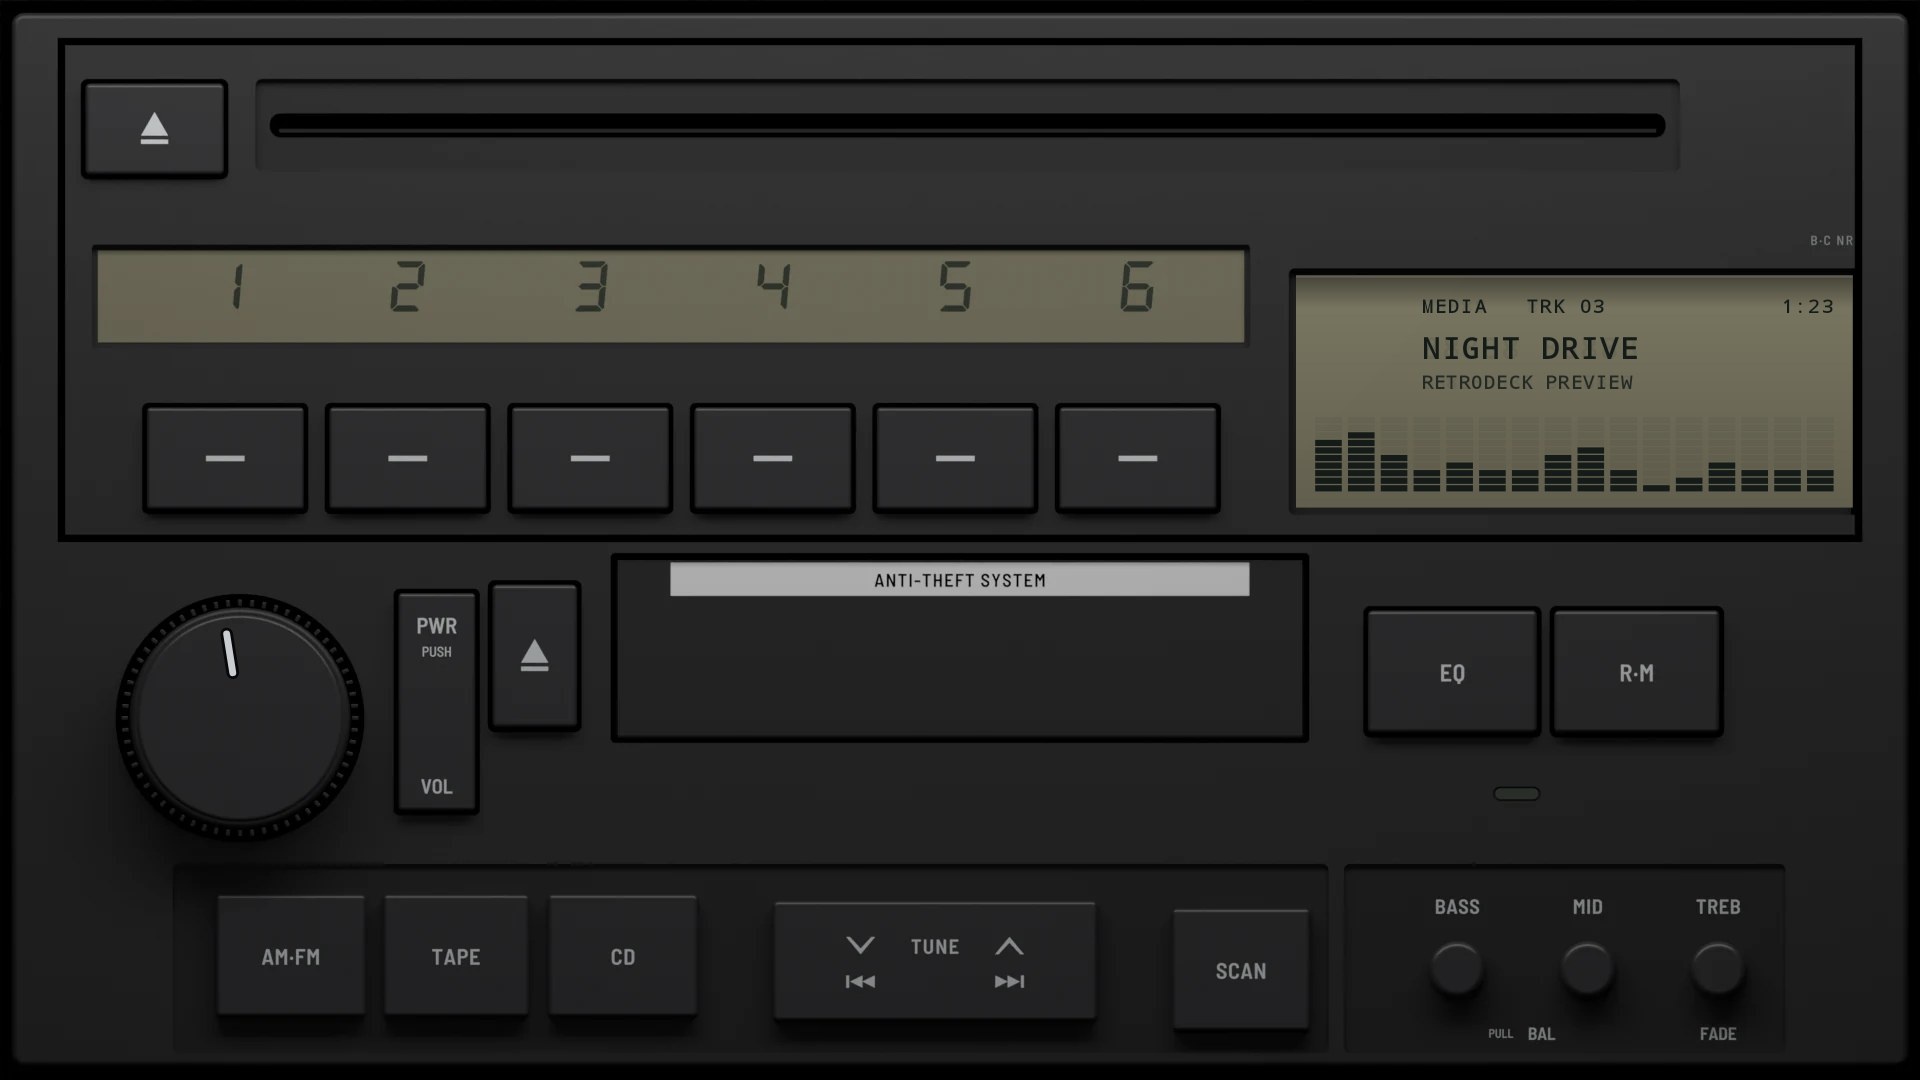
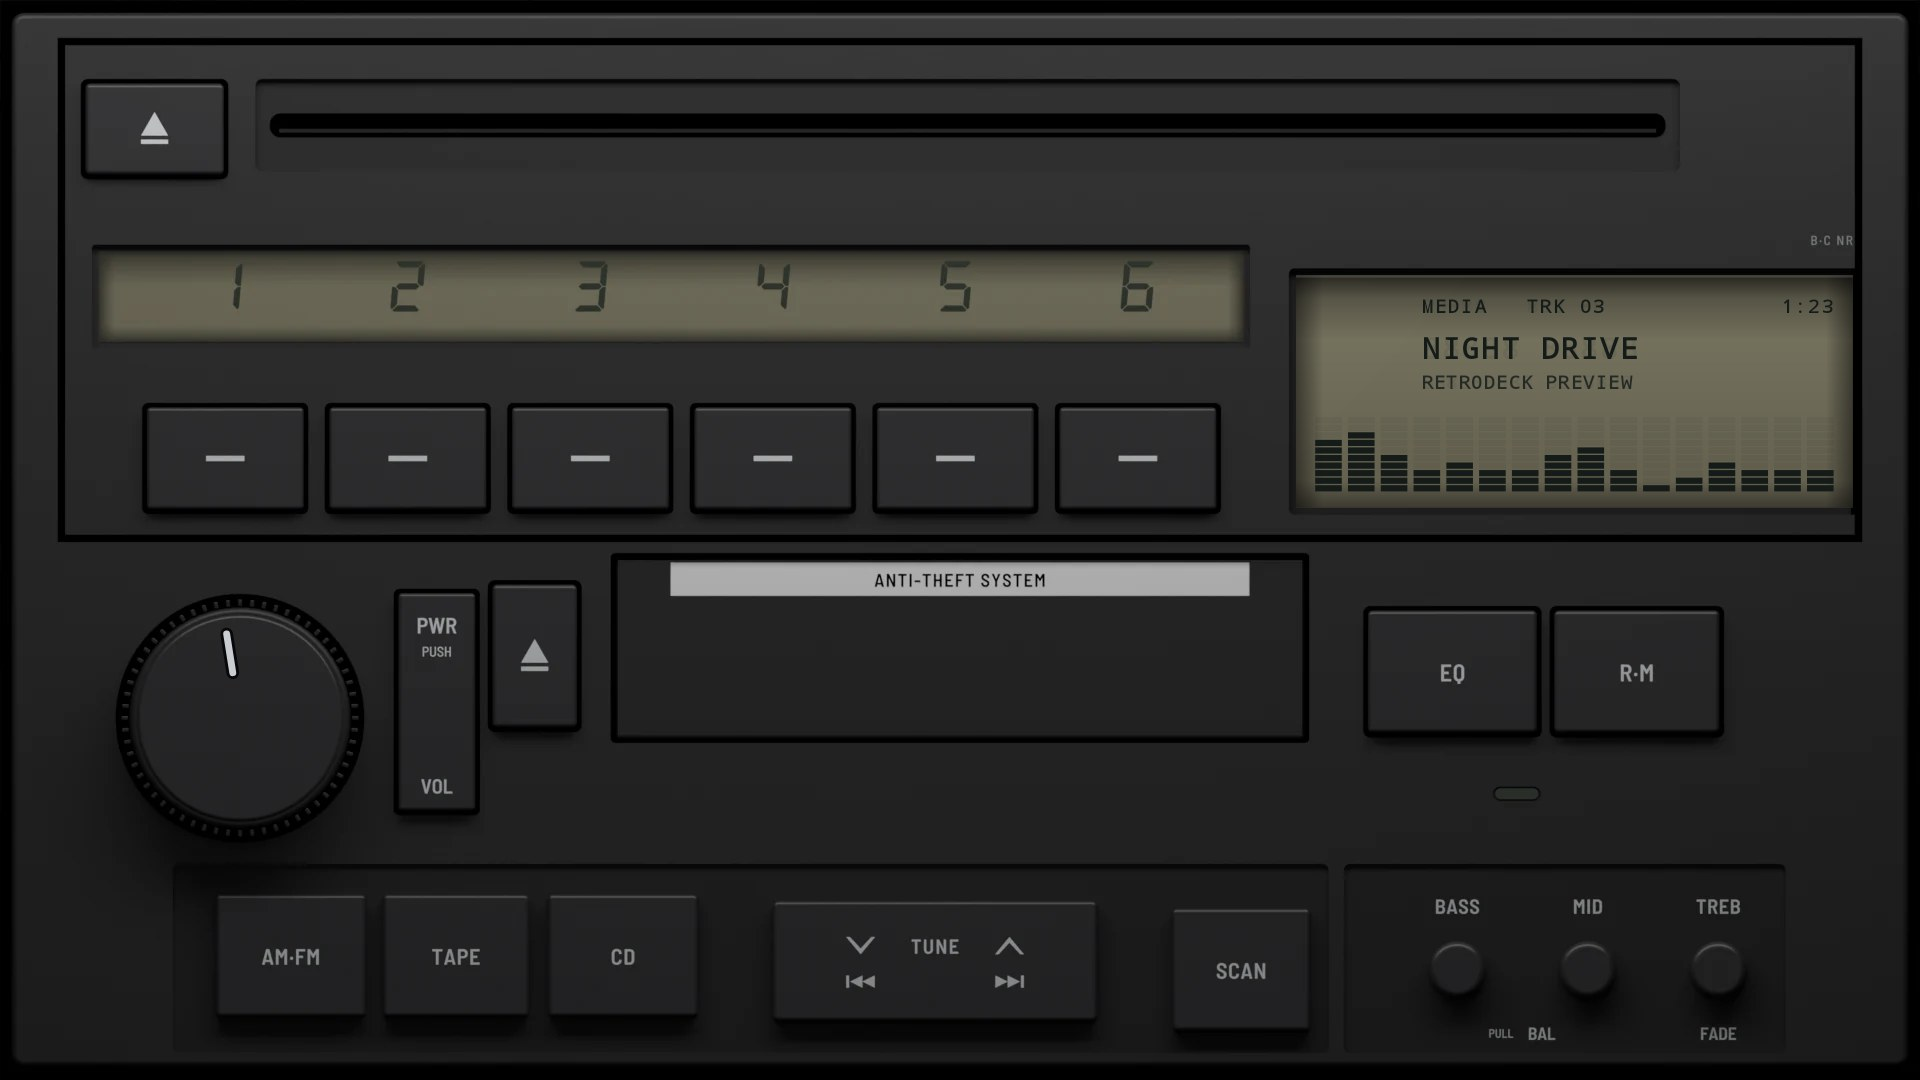
A80 Factory 1994: deeper inner shadow round both displays

Changed region(s): [[0.0312, 0.2139, 0.9688, 0.4889]]

diff --git a/tools/blender/a80.py b/tools/blender/a80.py
@@ -52,8 +52,53 @@ strip_bsdf = strip.node_tree.nodes["Principled BSDF"]
 strip_bsdf.inputs["Emission Color"].default_value = (*srgb(0xA6D83A), 1)
 
 
+
+
+def inner_shadow(m, w, h, top=0.3, edge=0.14, floor=0.12):
+    """Darken a w x h panel towards its edges, most under the top, where the bezel overhangs it."""
+    n = m.node_tree.nodes
+    links = m.node_tree.links
+    coord = n.new("ShaderNodeTexCoord")
+    xyz = n.new("ShaderNodeSeparateXYZ")
+    links.new(coord.outputs["Generated"], xyz.inputs["Vector"])
+
+    def math(op, a, b):
+        node = n.new("ShaderNodeMath")
+        node.operation = op
+        node.use_clamp = op in ("MULTIPLY",)
+        for i, v in enumerate((a, b)):
+            if isinstance(v, float):
+                node.inputs[i].default_value = v
+            else:
+                links.new(v, node.inputs[i])
+        return node.outputs[0]
+
+    x, y = xyz.outputs["X"], xyz.outputs["Y"]
+    left = math("MULTIPLY", x, w / edge)
+    right = math("MULTIPLY", math("SUBTRACT", 1.0, x), w / edge)
+    foot = math("MULTIPLY", y, h / edge)
+    head = math("MULTIPLY", math("SUBTRACT", 1.0, y), h / top)
+    f = math("MULTIPLY", math("MULTIPLY", left, right), math("MULTIPLY", foot, head))
+    shade = math("ADD", floor, math("MULTIPLY", f, 1.0 - floor))
+    p = n["Principled BSDF"]
+    for socket in ("Base Color", "Emission Color"):
+        mix = n.new("ShaderNodeMixRGB")
+        mix.blend_type = "MULTIPLY"
+        mix.inputs["Fac"].default_value = 1.0
+        mix.inputs["Color1"].default_value = p.inputs[socket].default_value
+        val = n.new("ShaderNodeCombineXYZ")
+        for c in "XYZ":
+            links.new(shade, val.inputs[c])
+        links.new(val.outputs[0], mix.inputs["Color2"])
+        links.new(mix.outputs[0], p.inputs[socket])
+        STRIP_COLOURS[socket] = mix.inputs["Color1"]
+
+
+STRIP_COLOURS = {}
+
+
 def strip_light(pressed, night):
-    strip_bsdf.inputs["Base Color"].default_value = (*(srgb(0x7A7762) if not night else (0, 0, 0)), 1)
+    STRIP_COLOURS["Base Color"].default_value = (*(srgb(0x7A7762) if not night else (0, 0, 0)), 1)
     strip_bsdf.inputs["Emission Strength"].default_value = 0.9 if night else 0.0
 
 
@@ -139,6 +184,7 @@ for k in key_named(EJECT):
 sx0, sy0, sx1, sy1 = X(0.051), Y(0.317), X(0.648), Y(0.232)
 cut_box(sx0 - 0.05, sy0 - 0.05, sx1 + 0.05, sy1 + 0.05, FACE, 0.08, hole, 0.03, floor=inset)
 box("strip", sx0, sy0, sx1, sy1, FACE - 0.08, FACE - 0.07, strip)
+inner_shadow(strip, sx1 - sx0, sy1 - sy0)
 dseg = bpy.data.fonts.load(os.path.join(HERE, "..", "..", "core", "src", "main", "assets", "fonts",
                                         "DSEG7Classic-BoldItalic.ttf"))
 for i in range(6):

diff --git a/core/src/main/java/com/maxhayim/retrodeck/core/StereoView.java b/core/src/main/java/com/maxhayim/retrodeck/core/StereoView.java
@@ -87,7 +87,7 @@ public class StereoView extends View {
     /** For a rendered skin: the faceplate with every key pressed in, and whether both are the night ones. */
     private Bitmap pressedArt;
     private boolean artNight;
-    private Shader dotGrid, mesh, glare, panel, panelShade;
+    private Shader dotGrid, mesh, glare, panel, panelShade, panelLeft, panelRight, panelFoot;
     private RectF glareFor, panelFor;
     private int panelColor;
     private int lastVolume = -1;
@@ -520,7 +520,8 @@ public class StereoView extends View {
 
     /**
      * A reflective LCD's panel, lit from behind in the illumination colour through a grey-green
-     * polariser, with a shadow where the bezel overhangs it.
+     * polariser, set into its bezel: a deep shadow under the top edge, where the light comes from,
+     * and a softer one round the other three.
      */
     private void drawPanel(Canvas c, RectF lcd, float u) {
         int light = !keysLit && skin.panelDay != 0 ? skin.panelDay : skin.backlight(illumination);
@@ -531,12 +532,19 @@ public class StereoView extends View {
             // comes through a grey-green polariser.
             int top = skin.backlight != 0 ? light : Illumination.mix(0xFFA9BBB0, light, 0.38f);
             panel = new LinearGradient(0, lcd.top, 0, lcd.bottom, top, Illumination.dim(top, 0.8f), Shader.TileMode.CLAMP);
-            panelShade = new LinearGradient(0, lcd.top, 0, lcd.top + u * 0.03f, 0x70000000, 0x00000000, Shader.TileMode.CLAMP);
+            panelShade = new LinearGradient(0, lcd.top, 0, lcd.top + u * 0.06f, new int[]{0xB0000000, 0x48000000, 0x00000000},
+                    new float[]{0f, 0.35f, 1f}, Shader.TileMode.CLAMP);
+            float side = u * 0.025f;
+            panelLeft = new LinearGradient(lcd.left, 0, lcd.left + side, 0, 0x78000000, 0x00000000, Shader.TileMode.CLAMP);
+            panelRight = new LinearGradient(lcd.right, 0, lcd.right - side, 0, 0x78000000, 0x00000000, Shader.TileMode.CLAMP);
+            panelFoot = new LinearGradient(0, lcd.bottom, 0, lcd.bottom - side, 0x60000000, 0x00000000, Shader.TileMode.CLAMP);
         }
         paint.setShader(panel);
         c.drawRect(lcd, paint);
-        paint.setShader(panelShade);
-        c.drawRect(lcd, paint);
+        for (Shader shade : new Shader[]{panelShade, panelLeft, panelRight, panelFoot}) {
+            paint.setShader(shade);
+            c.drawRect(lcd, paint);
+        }
         paint.setShader(null);
     }
 
